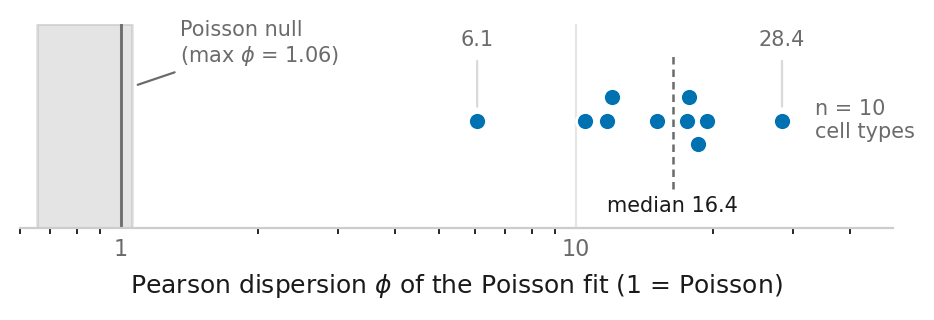
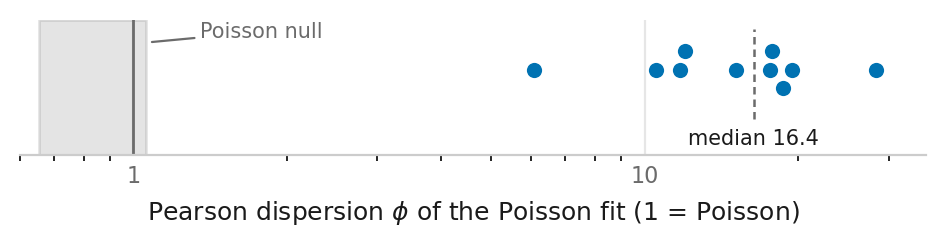
fig 1a: -endpoint labels, -n, -max phi

diff --git a/analyses/model_selection/plot_overdispersion.py b/analyses/model_selection/plot_overdispersion.py
@@ -50,7 +50,7 @@ def main():
     d = d.sort_values("phi")
     # Included at 0.70\textwidth (498.66pt), so the canvas is drawn 4.83in
     # wide and point sizes below mean what they say on the page.
-    fig, ax = plt.subplots(figsize=(4.83, 1.7))
+    fig, ax = plt.subplots(figsize=(4.83, 1.35))
 
     # Deterministic beeswarm: phi clusters between 15 and 20, and simply
     # alternating rows still collides there. Each point takes the row nearest
@@ -80,22 +80,16 @@ def main():
                edgecolor="white", linewidth=1.0)
 
     ax.set_yticks([])
-    ax.set_ylim(-0.95, 0.85)
+    ax.set_ylim(-0.95, 0.55)
     ax.set_xscale("log")
-    ax.set_xlim(0.6, float(d.phi.max()) * 1.75)
+    ax.set_xlim(0.6, float(d.phi.max()) * 1.25)
     ax.set_xlabel("Pearson dispersion $\\phi$ of the Poisson fit "
                   "(1 = Poisson)", fontsize=9, color=INK)
 
-    # Direct labels on the three values the text quotes, not on every point.
     med = float(d.phi.median())
-    for x, yi in ((float(d.phi.min()), y[0]), (float(d.phi.max()), y[-1])):
-        ax.annotate(f"{x:.1f}", xy=(x, yi), xytext=(x, 0.66), ha="center",
-                    fontsize=7.5, color=MUTED,
-                    arrowprops=dict(arrowstyle="-", color="#d9d9d9", lw=0.8,
-                                    shrinkA=2, shrinkB=5))
     # The median is a summary, not one of the dots, so it gets a rule rather
     # than a leader pointing into the gap between two points.
-    ax.vlines(med, -0.60, 0.60, color=MUTED, lw=0.9, ls=(0, (3, 2)), zorder=2)
+    ax.vlines(med, -0.55, 0.45, color=MUTED, lw=0.9, ls=(0, (3, 2)), zorder=2)
     ax.text(med, -0.66, f"median {med:.1f}", ha="center", va="top",
             fontsize=7.5, color=INK)
 
@@ -108,13 +102,11 @@ def main():
         ax.spines[side].set_visible(False)
     ax.spines["bottom"].set_color("#cccccc")
     ax.tick_params(colors=MUTED, labelsize=8, length=0)
-    ax.annotate(f"Poisson null\n(max $\\phi$ = {hi:.2f})",
-                xy=(hi, 0.30), xytext=(1.35, 0.68),
+    ax.annotate("Poisson null",
+                xy=(hi, 0.30), xytext=(1.35, 0.42),
                 fontsize=7.5, color=MUTED, va="center", ha="left",
                 arrowprops=dict(arrowstyle="-", color=MUTED, lw=0.8,
                                 shrinkA=0, shrinkB=2))
-    ax.text(float(d.phi.max()) * 1.18, 0.0, f"n = {len(d)}\ncell types",
-            va="center", ha="left", fontsize=7.5, color=MUTED)
 
     print(f"phi: {d.phi.min():.1f} to {d.phi.max():.1f} (median {d.phi.median():.1f})")
     print(f"null: mean {d.phi_null_mean.mean():.2f}, max {hi:.2f}")
